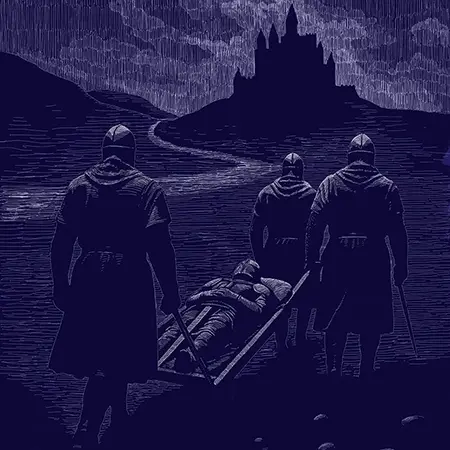
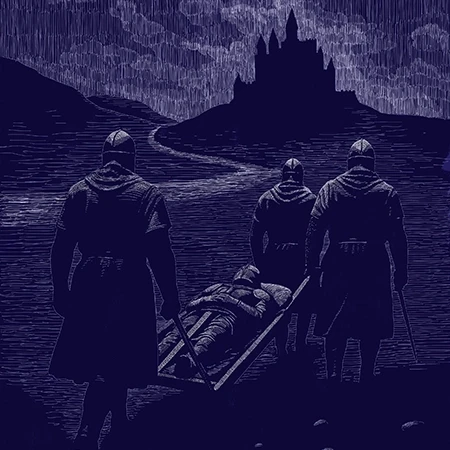
opravy obrázků hp

diff --git a/index.html b/index.html
@@ -39,6 +39,12 @@ twitterCard: summary_large_image
                 <figure class="small-gallery__figure">
                     <img class="small-gallery__image" 
                         src="/images/gallery/Krocan.webp" 
+                        srcset="/images/gallery/Krocan_350.webp 350w,
+                                /images/gallery/Krocan.webp 450w"
+                        sizes="(max-width: 450px) 100vw, 
+                                (max-width: 768px) 50vw, 
+                                33vw" 
+                        data-full="/images/gallery/Krocan.webp"
                         alt="Ilustrace k textu Martina Zemana: Krocan. Jde o středověký epos. Na kresbě vidíme tři rytíře nesoucí na lehátku čtvrtého mrtvého. V dálce je hrad, na který směřují." loading="lazy"
                         width="450"
                         height="450">
@@ -53,6 +59,12 @@ twitterCard: summary_large_image
                 <figure class="small-gallery__figure">
                     <img class="small-gallery__image" 
                         src="/images/gallery/ukzuz.webp" 
+                        srcset="/images/gallery/ukzuz_350.webp 350w,
+                                /images/gallery/ukzuz.webp 450w"
+                        sizes="(max-width: 450px) 100vw, 
+                                (max-width: 768px) 50vw, 
+                                33vw" 
+                        data-full="/images/gallery/ukzuz.webp"
                         alt="Naučná ilustrace pro Úkzuz k výstavě v Národním zemědělském muzeu. Pampeliška a její kořeny v zemi. K ní cestičkami v půdě putují brouci." 
                         loading="lazy"
                         width="450"
@@ -67,7 +79,13 @@ twitterCard: summary_large_image
             <a href="/portfolio/krok_domu/" class="small-gallery__column show">
                 <figure class="small-gallery__figure">
                     <img class="small-gallery__image" 
-                        src="/images/gallery/krokDomu.webp" 
+                        src="/images/gallery/krokDomu.webp"
+                        srcset="/images/gallery/krokDomu_350.webp 350w,
+                                /images/gallery/krokDomu.webp 450w"
+                        sizes="(max-width: 450px) 100vw, 
+                                (max-width: 768px) 50vw, 
+                                33vw" 
+                        data-full="/images/gallery/krokDomu.webp" 
                         alt="Výřez z komiksu vytvořeného pro sdružení Krok domů. Hlavní hrdinka Katka sedí na lavičce, vedle ní sedí další dívka a za ní stojí muž. Všichni jsou drogově závislí." loading="lazy"
                         width="450"
                         height="450">
@@ -82,6 +100,12 @@ twitterCard: summary_large_image
                 <figure class="small-gallery__figure">
                     <img class="small-gallery__image" 
                         src="/images/gallery/pexeso.webp" 
+                        srcset="/images/gallery/pexeso_350.webp 350w,
+                                /images/gallery/pexeso.webp 450w"
+                        sizes="(max-width: 450px) 100vw, 
+                                (max-width: 768px) 50vw, 
+                                33vw" 
+                        data-full="/images/gallery/pexeso.webp" 
                         alt="Vektorová ilustrace baseta z psího pexesa." 
                         loading="lazy"
                         width="450"
@@ -96,7 +120,14 @@ twitterCard: summary_large_image
             <a href="/portfolio/oskare_plav/" class="small-gallery__column show">
                 <figure class="small-gallery__figure">
                     <img class="small-gallery__image" 
-                        src="/images/gallery/oskar_obalka.webp" alt="Ilustrace hlavního hrdiny knihy – tučňáka Oskara. Stojí na kře uprostřed oceánu a neví, jak se dostat na břeh. Bojí se totiž vody." 
+                        src="/images/gallery/oskar_obalka.webp"
+                        srcset="/images/gallery/oskar_obalka_350.webp 350w,
+                                /images/gallery/oskar_obalka.webp 450w"
+                        sizes="(max-width: 450px) 100vw, 
+                                (max-width: 768px) 50vw, 
+                                33vw" 
+                        data-full="/images/gallery/oskar_obalka.webp" 
+                        alt="Ilustrace hlavního hrdiny knihy – tučňáka Oskara. Stojí na kře uprostřed oceánu a neví, jak se dostat na břeh. Bojí se totiž vody." 
                         loading="lazy"
                         width="450"
                         height="450">
@@ -110,8 +141,15 @@ twitterCard: summary_large_image
             <a href="/portfolio/pessoa/" class="small-gallery__column show">
                 <figure class="small-gallery__figure">
                     <img class="small-gallery__image" 
-                        src="/images/gallery/pessoa.webp" 
-                        alt="Ilustrace z knihy Fernanda Pessoy – Kniha neklidu. Na kresbě je znázorněn autor knihy." loading="lazy"
+                        src="/images/gallery/pessoa.webp"
+                        srcset="/images/gallery/pessoa_350.webp 350w,
+                                /images/gallery/pessoa.webp 450w"
+                        sizes="(max-width: 450px) 100vw, 
+                                (max-width: 768px) 50vw, 
+                                33vw" 
+                        data-full="/images/gallery/pessoa.webp"
+                        alt="Ilustrace z knihy Fernanda Pessoy – Kniha neklidu. Na kresbě je znázorněn autor knihy." 
+                        loading="lazy"
                         width="450"
                         height="450">
                     <figcaption class="small-gallery__caption">
@@ -138,9 +176,18 @@ twitterCard: summary_large_image
     </div>
     <div class="about__image-container">
         <img src="/images/gallery/oskar_obalka.webp" 
+        srcset="/images/gallery/oskar_obalka_350.webp 350w,
+                /images/gallery/oskar_obalka.webp 450w,
+                /images/gallery/oskar_obalka_600.webp 600w"
+        sizes="(max-width: 450px) 100vw, 
+                (max-width: 768px) 50vw, 
+                33vw" 
+        data-full="/images/gallery/oskar_obalka_600.webp" 
             alt="Obálka knihy Oskare, plav! Na obrázku je tučňák na kře uprostřed oceánu." 
             class="about__image" 
-            loading="lazy">
+            loading="lazy"
+            width="600"
+            height="600">
     </div>
 </div>
 </section>

diff --git a/dist/index.html b/dist/index.html
@@ -150,6 +150,12 @@
                 <figure class="small-gallery__figure">
                     <img class="small-gallery__image" 
                         src="/images/gallery/Krocan.webp" 
+                        srcset="/images/gallery/Krocan_350.webp 350w,
+                                /images/gallery/Krocan.webp 450w"
+                        sizes="(max-width: 450px) 100vw, 
+                                (max-width: 768px) 50vw, 
+                                33vw" 
+                        data-full="/images/gallery/Krocan.webp"
                         alt="Ilustrace k textu Martina Zemana: Krocan. Jde o středověký epos. Na kresbě vidíme tři rytíře nesoucí na lehátku čtvrtého mrtvého. V dálce je hrad, na který směřují." loading="lazy"
                         width="450"
                         height="450">
@@ -164,6 +170,12 @@
                 <figure class="small-gallery__figure">
                     <img class="small-gallery__image" 
                         src="/images/gallery/ukzuz.webp" 
+                        srcset="/images/gallery/ukzuz_350.webp 350w,
+                                /images/gallery/ukzuz.webp 450w"
+                        sizes="(max-width: 450px) 100vw, 
+                                (max-width: 768px) 50vw, 
+                                33vw" 
+                        data-full="/images/gallery/ukzuz.webp"
                         alt="Naučná ilustrace pro Úkzuz k výstavě v Národním zemědělském muzeu. Pampeliška a její kořeny v zemi. K ní cestičkami v půdě putují brouci." 
                         loading="lazy"
                         width="450"
@@ -178,7 +190,13 @@
             <a href="/portfolio/krok_domu/" class="small-gallery__column show">
                 <figure class="small-gallery__figure">
                     <img class="small-gallery__image" 
-                        src="/images/gallery/krokDomu.webp" 
+                        src="/images/gallery/krokDomu.webp"
+                        srcset="/images/gallery/krokDomu_350.webp 350w,
+                                /images/gallery/krokDomu.webp 450w"
+                        sizes="(max-width: 450px) 100vw, 
+                                (max-width: 768px) 50vw, 
+                                33vw" 
+                        data-full="/images/gallery/krokDomu.webp" 
                         alt="Výřez z komiksu vytvořeného pro sdružení Krok domů. Hlavní hrdinka Katka sedí na lavičce, vedle ní sedí další dívka a za ní stojí muž. Všichni jsou drogově závislí." loading="lazy"
                         width="450"
                         height="450">
@@ -193,6 +211,12 @@
                 <figure class="small-gallery__figure">
                     <img class="small-gallery__image" 
                         src="/images/gallery/pexeso.webp" 
+                        srcset="/images/gallery/pexeso_350.webp 350w,
+                                /images/gallery/pexeso.webp 450w"
+                        sizes="(max-width: 450px) 100vw, 
+                                (max-width: 768px) 50vw, 
+                                33vw" 
+                        data-full="/images/gallery/pexeso.webp" 
                         alt="Vektorová ilustrace baseta z psího pexesa." 
                         loading="lazy"
                         width="450"
@@ -207,7 +231,14 @@
             <a href="/portfolio/oskare_plav/" class="small-gallery__column show">
                 <figure class="small-gallery__figure">
                     <img class="small-gallery__image" 
-                        src="/images/gallery/oskar_obalka.webp" alt="Ilustrace hlavního hrdiny knihy – tučňáka Oskara. Stojí na kře uprostřed oceánu a neví, jak se dostat na břeh. Bojí se totiž vody." 
+                        src="/images/gallery/oskar_obalka.webp"
+                        srcset="/images/gallery/oskar_obalka_350.webp 350w,
+                                /images/gallery/oskar_obalka.webp 450w"
+                        sizes="(max-width: 450px) 100vw, 
+                                (max-width: 768px) 50vw, 
+                                33vw" 
+                        data-full="/images/gallery/oskar_obalka.webp" 
+                        alt="Ilustrace hlavního hrdiny knihy – tučňáka Oskara. Stojí na kře uprostřed oceánu a neví, jak se dostat na břeh. Bojí se totiž vody." 
                         loading="lazy"
                         width="450"
                         height="450">
@@ -221,8 +252,15 @@
             <a href="/portfolio/pessoa/" class="small-gallery__column show">
                 <figure class="small-gallery__figure">
                     <img class="small-gallery__image" 
-                        src="/images/gallery/pessoa.webp" 
-                        alt="Ilustrace z knihy Fernanda Pessoy – Kniha neklidu. Na kresbě je znázorněn autor knihy." loading="lazy"
+                        src="/images/gallery/pessoa.webp"
+                        srcset="/images/gallery/pessoa_350.webp 350w,
+                                /images/gallery/pessoa.webp 450w"
+                        sizes="(max-width: 450px) 100vw, 
+                                (max-width: 768px) 50vw, 
+                                33vw" 
+                        data-full="/images/gallery/pessoa.webp"
+                        alt="Ilustrace z knihy Fernanda Pessoy – Kniha neklidu. Na kresbě je znázorněn autor knihy." 
+                        loading="lazy"
                         width="450"
                         height="450">
                     <figcaption class="small-gallery__caption">
@@ -249,9 +287,18 @@
     </div>
     <div class="about__image-container">
         <img src="/images/gallery/oskar_obalka.webp" 
+        srcset="/images/gallery/oskar_obalka_350.webp 350w,
+                /images/gallery/oskar_obalka.webp 450w,
+                /images/gallery/oskar_obalka_600.webp 600w"
+        sizes="(max-width: 450px) 100vw, 
+                (max-width: 768px) 50vw, 
+                33vw" 
+        data-full="/images/gallery/oskar_obalka_600.webp" 
             alt="Obálka knihy Oskare, plav! Na obrázku je tučňák na kře uprostřed oceánu." 
             class="about__image" 
-            loading="lazy">
+            loading="lazy"
+            width="600"
+            height="600">
     </div>
 </div>
 </section>

diff --git a/portfolio/index.html b/portfolio/index.html
@@ -182,7 +182,9 @@ title: "Portfolio prací: ilustrace, grafika, kód."
                 <!-- item-->
                 <a href="/portfolio/kazantzakis/" class="gallery__column show illustration graphic" data-categories="illustration, graphic">
                     <figure class="gallery__figure">
-                        <img class="gallery__image" src="/images/gallery/pokuseni.webp" alt="Ilustrace a grafická úprava knihy Nikose Kazantzakise: Poslední pokušení. Motiv z knižní obálky: Klečící Ježíš modlící se v olivovém háji před tím, než je zatčen.">
+                        <img class="gallery__image" 
+                            src="/images/gallery/pokuseni.webp" 
+                            alt="Ilustrace a grafická úprava knihy Nikose Kazantzakise: Poslední pokušení. Motiv z knižní obálky: Klečící Ježíš modlící se v olivovém háji před tím, než je zatčen.">
                         <figcaption class="gallery__caption">
                             <h2 class="gallery__title">Nikos Kazantzakis: Poslední pokušení</h2>
                             <p class="gallery__category">Ilustrace, grafika</p>

diff --git a/dist/portfolio/index.html b/dist/portfolio/index.html
@@ -301,7 +301,9 @@
                 <!-- item-->
                 <a href="/portfolio/kazantzakis/" class="gallery__column show illustration graphic" data-categories="illustration, graphic">
                     <figure class="gallery__figure">
-                        <img class="gallery__image" src="/images/gallery/pokuseni.webp" alt="Ilustrace a grafická úprava knihy Nikose Kazantzakise: Poslední pokušení. Motiv z knižní obálky: Klečící Ježíš modlící se v olivovém háji před tím, než je zatčen.">
+                        <img class="gallery__image" 
+                            src="/images/gallery/pokuseni.webp" 
+                            alt="Ilustrace a grafická úprava knihy Nikose Kazantzakise: Poslední pokušení. Motiv z knižní obálky: Klečící Ježíš modlící se v olivovém háji před tím, než je zatčen.">
                         <figcaption class="gallery__caption">
                             <h2 class="gallery__title">Nikos Kazantzakis: Poslední pokušení</h2>
                             <p class="gallery__category">Ilustrace, grafika</p>

diff --git a/SCSS/pages/_home.scss b/SCSS/pages/_home.scss
@@ -322,7 +322,7 @@
 
     &__image {
         max-width: 70%;
-        max-height: auto;
+        height: auto;
         box-shadow: 3px 3px 10px rgba(0, 0, 0, 0.3);
         margin-bottom: 2rem;
 

diff --git a/css/style.css b/css/style.css
@@ -801,7 +801,7 @@ h6 {
 }
 .about__image {
   max-width: 70%;
-  max-height: auto;
+  height: auto;
   box-shadow: 3px 3px 10px rgba(0, 0, 0, 0.3);
   margin-bottom: 2rem;
 }

diff --git a/dist/css/style.css b/dist/css/style.css
@@ -801,7 +801,7 @@ h6 {
 }
 .about__image {
   max-width: 70%;
-  max-height: auto;
+  height: auto;
   box-shadow: 3px 3px 10px rgba(0, 0, 0, 0.3);
   margin-bottom: 2rem;
 }
